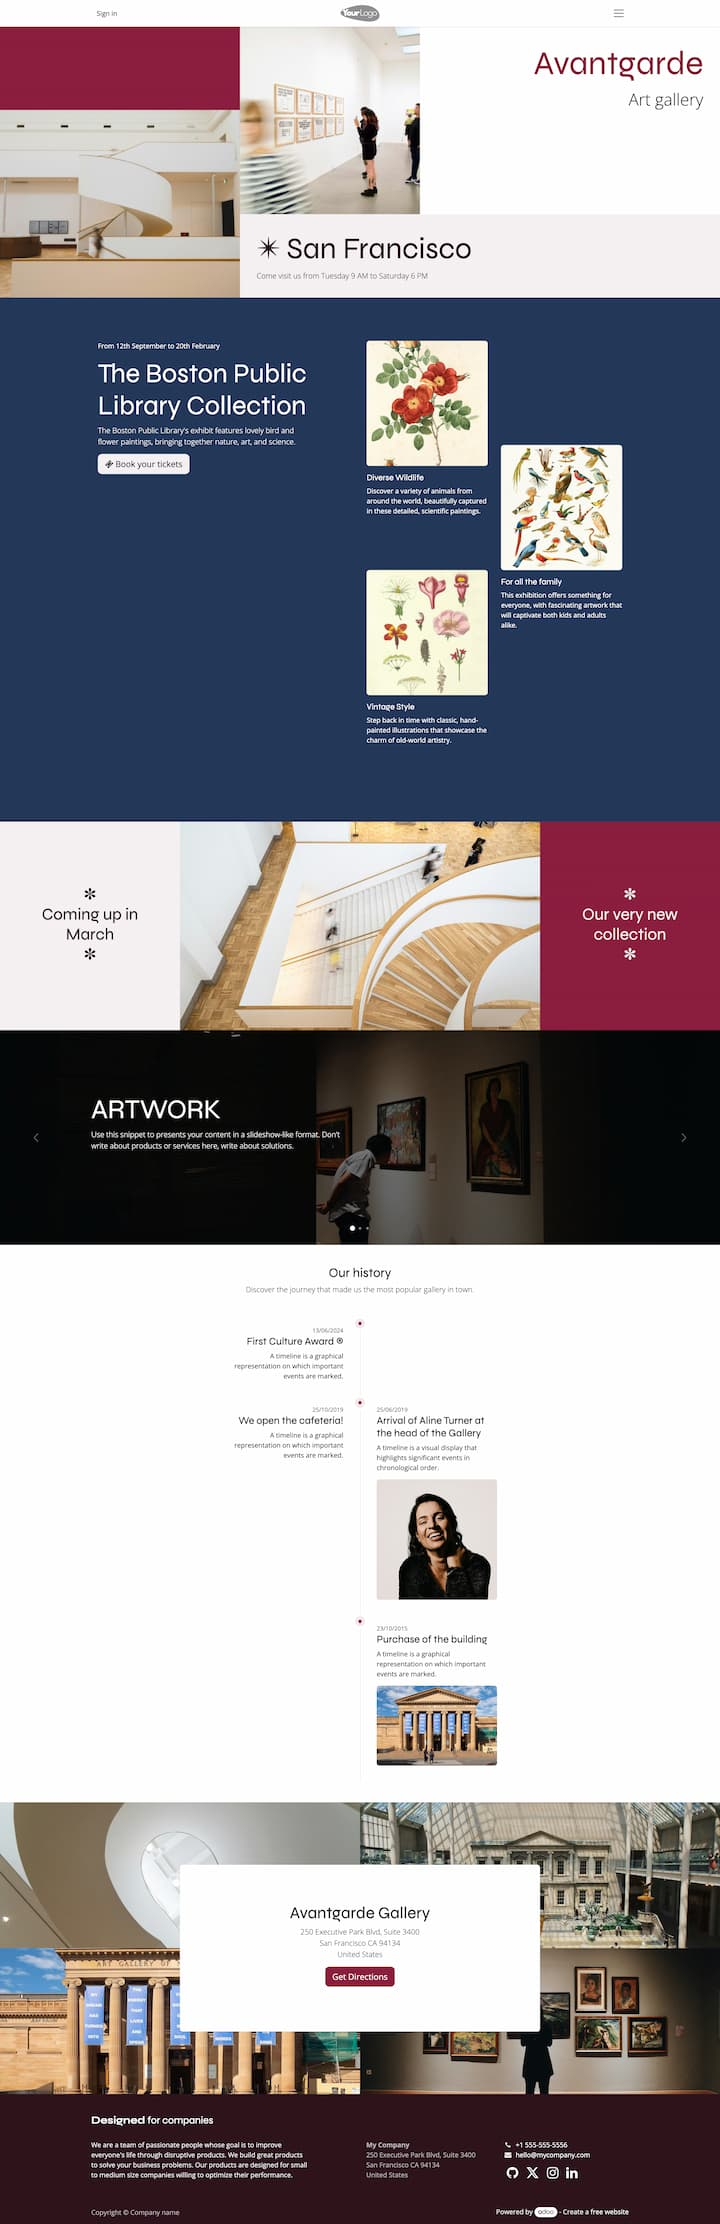
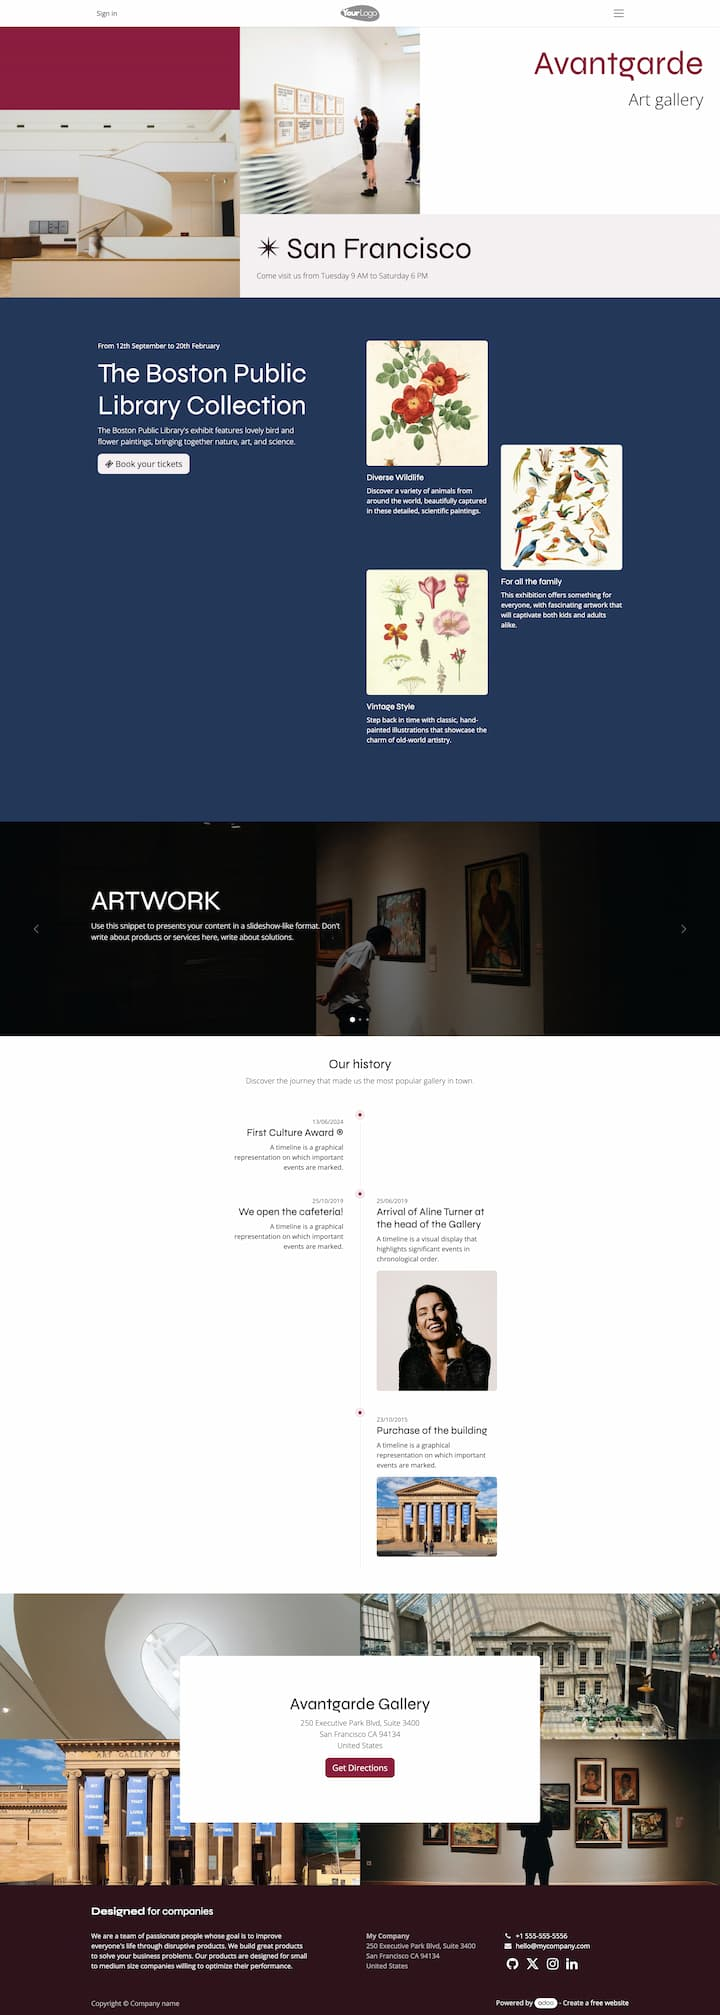
[IMP] theme_*: explode masonry snippet
See community commit for details

Note: this also fixes avantgarde svg/screenshot at the same time: we
remove the s_masonry_block but add the missing carousel.

(image contribution by MANO)

diff --git a/theme_avantgarde/static/src/js/tour.js b/theme_avantgarde/static/src/js/tour.js
@@ -13,11 +13,6 @@ const snippets = [
         groupName: "Columns",
     },
     {
-        id: 's_masonry_block',
-        name: 'Masonry',
-        groupName: "Images",
-    },
-    {
         id: 's_carousel',
         name: 'Carousel',
         groupName: "Intro",

diff --git a/theme_paptic/static/src/js/tour.js b/theme_paptic/static/src/js/tour.js
@@ -24,7 +24,7 @@ const snippets = [
         groupName: "Content",
     },
     {
-        id: 's_masonry_block',
+        id: 's_masonry_block_images_template',
         name: 'Masonry',
         groupName: "Images",
     },

diff --git a/theme_aviato/static/src/js/tour.js b/theme_aviato/static/src/js/tour.js
@@ -29,7 +29,7 @@ const snippets = [
         groupName: "Text",
     },
     {
-        id: 's_masonry_block',
+        id: 's_masonry_block_default_template',
         name: 'Masonry',
         groupName: "Images",
     },

diff --git a/theme_bewise/static/src/js/tour.js b/theme_bewise/static/src/js/tour.js
@@ -23,7 +23,7 @@ const snippets = [
         groupName: "Text",
     },
     {
-        id: 's_masonry_block',
+        id: 's_masonry_block_default_template',
         name: 'Masonry',
         groupName: "Images",
     },

diff --git a/theme_beauty/static/src/js/tour.js b/theme_beauty/static/src/js/tour.js
@@ -9,7 +9,7 @@ const snippets = [
         groupName: "Intro",
     },
     {
-        id: 's_masonry_block',
+        id: 's_masonry_block_mosaic_template',
         name: 'Masonry',
         groupName: "Images",
     },

diff --git a/theme_bookstore/__manifest__.py b/theme_bookstore/__manifest__.py
@@ -83,7 +83,7 @@
             'personal': ['s_text_cover', 's_image_text', 's_text_block_h2', 's_numbers', 's_features', 's_call_to_action'],
         },
         'landing': {
-            '1': ['s_banner', 's_features', 's_masonry_block', 's_call_to_action', 's_references', 's_quotes_carousel'],
+            '1': ['s_banner', 's_features', 's_masonry_block_default_template', 's_call_to_action', 's_references', 's_quotes_carousel'],
             '2': ['s_cover', 's_text_image', 's_text_block_h2', 's_three_columns_landing_1', 's_call_to_action'],
             '3': ['s_text_cover', 's_text_block_h2', 's_three_columns', 's_showcase', 's_color_blocks_2', 's_quotes_carousel', 's_call_to_action'],
         },

diff --git a/theme_buzzy/__manifest__.py b/theme_buzzy/__manifest__.py
@@ -78,7 +78,7 @@
             'personal': ['s_text_cover', 's_image_text', 's_text_block_h2', 's_numbers', 's_features', 's_call_to_action'],
         },
         'landing': {
-            '1': ['s_banner', 's_features', 's_masonry_block', 's_call_to_action', 's_references', 's_quotes_carousel'],
+            '1': ['s_banner', 's_features', 's_masonry_block_default_template', 's_call_to_action', 's_references', 's_quotes_carousel'],
             '2': ['s_cover', 's_text_image', 's_text_block_h2', 's_three_columns_landing_1', 's_call_to_action'],
             '3': ['s_text_cover', 's_text_block_h2', 's_three_columns', 's_showcase', 's_color_blocks_2', 's_quotes_carousel', 's_call_to_action'],
         },

diff --git a/theme_enark/__manifest__.py b/theme_enark/__manifest__.py
@@ -74,7 +74,7 @@
             'personal': ['s_text_cover', 's_image_text', 's_text_block_h2', 's_numbers', 's_features', 's_call_to_action'],
         },
         'landing': {
-            '1': ['s_banner', 's_features', 's_masonry_block', 's_call_to_action', 's_references', 's_quotes_carousel'],
+            '1': ['s_banner', 's_features', 's_masonry_block_default_template', 's_call_to_action', 's_references', 's_quotes_carousel'],
             '2': ['s_cover', 's_text_image', 's_text_block_h2', 's_three_columns_landing_1', 's_call_to_action'],
             '3': ['s_text_cover', 's_text_block_h2', 's_three_columns', 's_showcase', 's_color_blocks_2', 's_quotes_carousel', 's_call_to_action'],
         },

diff --git a/theme_nano/__manifest__.py b/theme_nano/__manifest__.py
@@ -77,7 +77,7 @@
             'personal': ['s_text_cover', 's_image_text', 's_text_block_h2', 's_numbers', 's_features', 's_call_to_action'],
         },
         'landing': {
-            '1': ['s_banner', 's_features', 's_masonry_block', 's_call_to_action', 's_references', 's_quotes_carousel'],
+            '1': ['s_banner', 's_features', 's_masonry_block_default_template', 's_call_to_action', 's_references', 's_quotes_carousel'],
             '2': ['s_cover', 's_text_image', 's_text_block_h2', 's_three_columns_landing_1', 's_call_to_action'],
             '3': ['s_text_cover', 's_text_block_h2', 's_three_columns', 's_showcase', 's_color_blocks_2', 's_quotes_carousel', 's_call_to_action'],
         },

diff --git a/theme_orchid/__manifest__.py b/theme_orchid/__manifest__.py
@@ -71,7 +71,7 @@
             'personal': ['s_text_cover', 's_image_text', 's_text_block_h2', 's_numbers', 's_features', 's_call_to_action'],
         },
         'landing': {
-            '1': ['s_banner', 's_features', 's_masonry_block', 's_call_to_action', 's_references', 's_quotes_carousel'],
+            '1': ['s_banner', 's_features', 's_masonry_block_default_template', 's_call_to_action', 's_references', 's_quotes_carousel'],
             '2': ['s_cover', 's_text_image', 's_text_block_h2', 's_three_columns_landing_1', 's_call_to_action'],
             '3': ['s_text_cover', 's_text_block_h2', 's_three_columns', 's_showcase', 's_color_blocks_2', 's_quotes_carousel', 's_call_to_action'],
         },

diff --git a/theme_real_estate/__manifest__.py b/theme_real_estate/__manifest__.py
@@ -65,7 +65,7 @@
         'website.s_quotes_carousel_demo_image_0': '/theme_real_estate/static/src/img/snippets/s_quotes_carousel_1.jpg',
     },
     'configurator_snippets': {
-        'homepage': ['s_cover', 's_text_image', 's_image_text', 's_three_columns', 's_title', 's_references', 's_numbers_showcase', 's_quotes_carousel', 's_call_to_action'],
+        'homepage': ['s_cover', 's_text_image', 's_image_text', 's_three_columns', 's_title', 's_references', 's_numbers_showcase', 's_quotes_carousel', 's_call_to_action'],  # FIXME the svg displays masonry???
     },
     'new_page_templates': {
         'about': {

diff --git a/theme_aviato/__manifest__.py b/theme_aviato/__manifest__.py
@@ -72,7 +72,7 @@
         'website.s_quotes_carousel_demo_image_0': '/theme_aviato/static/src/img/content/s_quote_bg_1.jpg',
     },
     'configurator_snippets': {
-        'homepage': ['s_banner', 's_text_image', 's_image_text', 's_picture', 's_title', 's_masonry_block', 's_company_team', 's_showcase', 's_quotes_carousel'],
+        'homepage': ['s_banner', 's_text_image', 's_image_text', 's_picture', 's_title', 's_masonry_block_default_template', 's_company_team', 's_showcase', 's_quotes_carousel'],
     },
     'license': 'LGPL-3',
     'live_test_url': 'https://theme-aviato.odoo.com',
